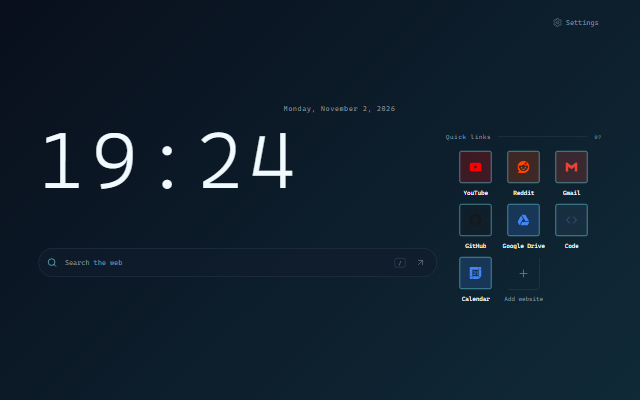
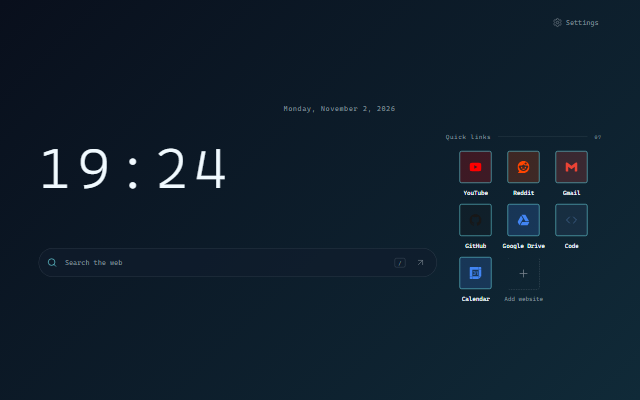
fix: fit clocks within layout areas

Changed region(s): [[0.25, 0.33, 0.4688, 0.48], [0.0625, 0.33, 0.2188, 0.48]]

diff --git a/e2e/theme-layout.spec.ts b/e2e/theme-layout.spec.ts
@@ -1,0 +1,78 @@
+import { test, expect, type Page } from '@playwright/test'
+import { readFileSync, readdirSync } from 'node:fs'
+import { resolve } from 'node:path'
+import { openTab, seedExistingUser, templateBookmarks } from './helpers'
+
+const galleryRoot = resolve('docs/gallery')
+const gallery = JSON.parse(readFileSync(resolve(galleryRoot, 'index.json'), 'utf8')) as { packs: { id: string; file: string }[] }
+const presets = readdirSync(resolve('src/presets')).filter(file => file.endsWith('.json')).map(file =>
+  JSON.parse(readFileSync(resolve('src/presets', file), 'utf8')) as { id: string; name: { en: string } },
+)
+const viewports = [{ width: 1280, height: 800 }, { width: 1440, height: 900 }, { width: 1024, height: 768 }]
+
+async function checkLayout(page: Page) {
+  await page.evaluate(async () => { await document.fonts.ready; await new Promise(requestAnimationFrame); await new Promise(requestAnimationFrame) })
+  await expect(page.locator('.mnt-widget-frame').first()).toBeVisible()
+  const issues = await page.evaluate(() => {
+    const issues: string[] = []
+    const tolerance = 1
+    const areas = Array.from(document.querySelectorAll<HTMLElement>('.mnt-area'))
+    if (!areas.length) issues.push('No layout areas rendered')
+    for (const area of areas) {
+      const name = area.dataset.area
+      const bounds = area.getBoundingClientRect()
+      if (area.scrollWidth > area.clientWidth) {
+        issues.push(`area ${name} horizontal overflow: ${area.scrollWidth} vs ${area.clientWidth}`)
+      }
+      for (const widget of area.querySelectorAll<HTMLElement>('.mnt-widget-frame, .mnt-clock > span, .mnt-date, .search, .mnt-group-title')) {
+        const rect = widget.getBoundingClientRect()
+        const outsideVertical = !widget.matches('.mnt-clock > span') && (rect.top < bounds.top - tolerance || rect.bottom > bounds.bottom + tolerance)
+        if (rect.left < bounds.left - tolerance || rect.right > bounds.right + tolerance || outsideVertical) {
+          issues.push(`widget ${widget.dataset.widgetId} outside area ${name}: ${JSON.stringify({ left: rect.left - bounds.left, right: rect.right - bounds.right, top: rect.top - bounds.top, bottom: rect.bottom - bounds.bottom })}`)
+        }
+      }
+    }
+    return issues
+  })
+  expect.soft(issues, `layout at ${page.viewportSize()?.width}x${page.viewportSize()?.height}`).toEqual([])
+}
+
+test.beforeEach(async ({ page }) => {
+  await seedExistingUser(page, { language: 'en', shortcuts: templateBookmarks, iconSize: 64 })
+  await page.clock.setFixedTime(new Date('2026-11-02T19:24:00Z'))
+  await page.goto('/')
+  await expect(page.locator('.clock')).toBeVisible()
+})
+
+for (const item of gallery.packs) {
+  test(`gallery ${item.id} layout at desktop sizes`, async ({ page }) => {
+    await page.locator('.mnt-settings-entry').first().click()
+    await openTab(page, 'ai')
+    const pack = readFileSync(resolve(galleryRoot, item.file), 'utf8')
+    await page.getByRole('textbox', { name: "The AI's reply" }).fill(`\`\`\`json\n${pack}\n\`\`\``)
+    await page.getByRole('button', { name: 'Preview', exact: true }).click()
+    const banner = page.locator('.mnt-banner[data-kind="preview"]')
+    await expect(banner).toBeVisible()
+    await banner.getByRole('button', { name: 'Apply', exact: true }).click()
+    await page.getByRole('button', { name: 'Close settings' }).click()
+    for (const viewport of viewports) {
+      await page.setViewportSize(viewport)
+      await checkLayout(page)
+    }
+  })
+}
+
+for (const preset of presets) {
+  test(`preset ${preset.id} layout at desktop sizes`, async ({ page }) => {
+    await page.locator('.mnt-settings-entry').first().click()
+    await openTab(page, 'appearance')
+    const button = page.getByRole('button', { name: preset.name.en, exact: true })
+    await button.click()
+    await expect(button).toHaveAttribute('aria-pressed', 'true')
+    await page.getByRole('button', { name: 'Close settings' }).click()
+    for (const viewport of viewports) {
+      await page.setViewportSize(viewport)
+      await checkLayout(page)
+    }
+  })
+}

diff --git a/src/widgets/ProfileWidgets.tsx b/src/widgets/ProfileWidgets.tsx
@@ -1,5 +1,5 @@
 import { Settings as SettingsIcon } from 'lucide-react'
-import { Suspense, lazy, useEffect, useState, type CSSProperties, type ReactNode } from 'react'
+import { Suspense, lazy, useEffect, useLayoutEffect, useRef, useState, type CSSProperties, type ReactNode } from 'react'
 import type { ProfileV2, Widget } from '../core/schema/profile'
 import type { Settings, Shortcut } from '../core/model'
 import type { MessageRef, Translate } from '../i18n'
@@ -48,7 +48,34 @@ function useNow(precision: 'second' | 'minute') {
 function ClockBlock({ widget, language, onContextMenu }: { widget: Extract<Widget, {type:'clock'}>; language: Settings['language']; onContextMenu: (event: ContextMenuEvent) => void }) {
   const p = widget.props
   const now = useNow(p.seconds ? 'second' : 'minute')
-  return <div className="intro" onContextMenu={onContextMenu}>{p.eyebrow === true && <div className="eyebrow"><span className="dot" /> {language === 'en' ? 'YOUR SPACE, YOUR PACE' : '你的空间，你的节奏'}</div>}<div className="clock mnt-clock">{formatClock(now, language, p)}</div></div>
+  const clock = useRef<HTMLDivElement>(null)
+  useLayoutEffect(() => {
+    const container = clock.current
+    const text = container?.firstElementChild as HTMLElement | null
+    if (!container || !text) return
+    let disposed = false
+    const fit = () => {
+      if (disposed) return
+      text.style.fontSize = ''
+      const available = container.getBoundingClientRect().width
+      if (!available || text.getBoundingClientRect().width <= available) return
+      const original = parseFloat(getComputedStyle(container).fontSize)
+      let low = 0, high = original
+      for (let i = 0; i < 12; i++) {
+        const size = (low + high) / 2
+        text.style.fontSize = `${size}px`
+        if (text.getBoundingClientRect().width <= available) low = size
+        else high = size
+      }
+      text.style.fontSize = `${low}px`
+    }
+    const observer = new ResizeObserver(fit)
+    observer.observe(container)
+    void document.fonts.ready.then(fit)
+    fit()
+    return () => { disposed = true; observer.disconnect() }
+  })
+  return <div className="intro" onContextMenu={onContextMenu}>{p.eyebrow === true && <div className="eyebrow"><span className="dot" /> {language === 'en' ? 'YOUR SPACE, YOUR PACE' : '你的空间，你的节奏'}</div>}<div ref={clock} className="clock mnt-clock"><span style={{ whiteSpace: 'nowrap' }}>{formatClock(now, language, p)}</span></div></div>
 }
 
 function DateBlock({ widget, language }: { widget: Extract<Widget, {type:'date'}>; language: Settings['language'] }) {
